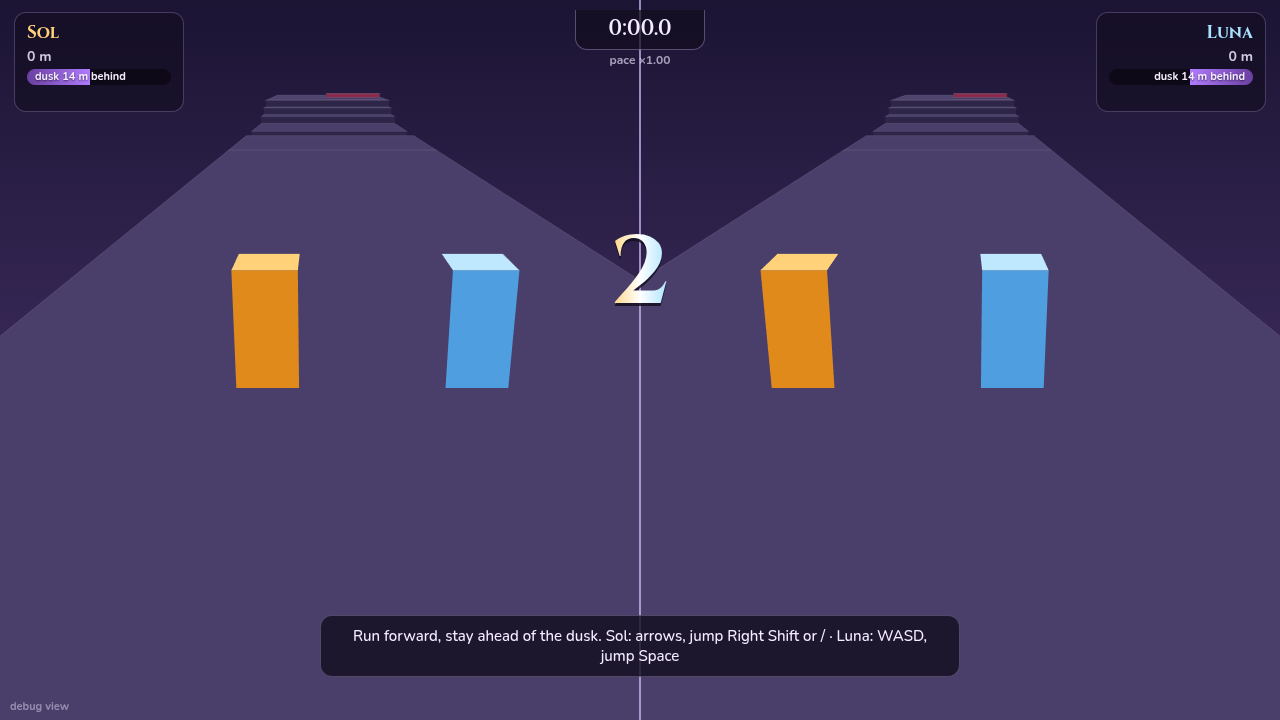
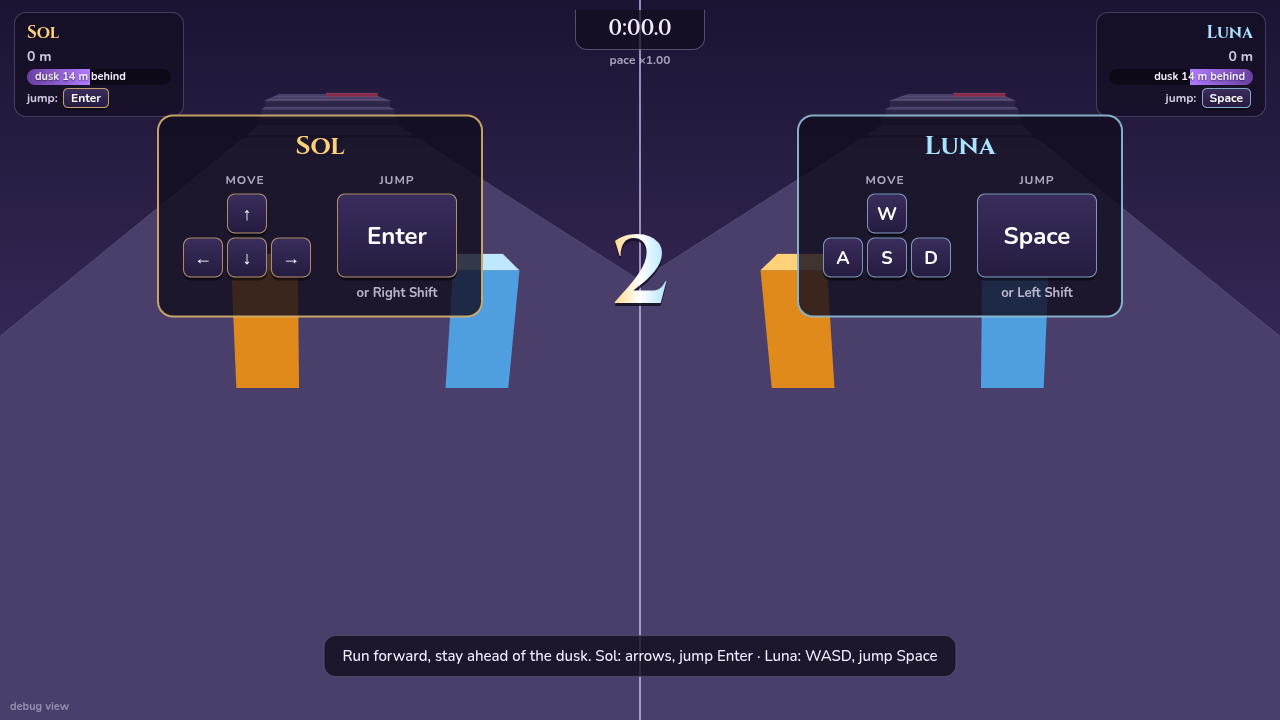
Docs: Runner 3D flow test and its numbers, far-apart tick time and state size, controls, file hooks; fresh screenshots (countdown cards, players far apart)

diff --git a/tools/r3d-far.js b/tools/r3d-far.js
@@ -17,7 +17,7 @@ function stand(p, o) {
   Object.assign(p, { x: (o.x0 + o.x1) / 2, z: o.z0 + 0.5, y: o.y, fy: o.y, vx: 0, vy: 0, vz: 0, gr: true, gref: -1, alive: true, jb: 0, jh: 0, coy: 0 });
 }
 
-for (const gap of gaps) {
+for (const [gap, warm] of [[gaps[gaps.length - 1], true], ...gaps.map(g => [g, false])]) {   // one silent pass first warms up the JIT
   let n = 0, us = 0, all = [], bytes = 0, maxBytes = 0, maxO = 0;
   for (const seed of seeds) {
     const L = buildRunner3d(seed);
@@ -41,5 +41,5 @@ for (const gap of gaps) {
       }
     }
   }
-  console.log(`players ${String(gap).padStart(3)} apart: tick mean ${(us / n).toFixed(1)} us, 99th percentile ${all.sort((x, y) => x - y)[Math.floor(all.length * 0.99)].toFixed(0)} us; state mean ${Math.round(bytes / (n / 25 * 3))} bytes, largest ${maxBytes} bytes, at most ${maxO} objects with state`);
+  if (!warm) console.log(`players ${String(gap).padStart(3)} apart: tick mean ${(us / n).toFixed(1)} us, 99th percentile ${all.sort((x, y) => x - y)[Math.floor(all.length * 0.99)].toFixed(0)} us; state mean ${Math.round(bytes / (n / 25 * 3))} bytes, largest ${maxBytes} bytes, at most ${maxO} objects with state`);
 }

diff --git a/docs/runner3d.md b/docs/runner3d.md
@@ -28,9 +28,10 @@ and its numbers, 5 determinism and netcode, 6 files and hooks, 7 rendering, 8 re
   rises about 4.1 units and stays in the air 0.8 s. Coyote time 5 ticks, a 6-tick jump buffer,
   and holding jump jumps again on landing. Step-up 0.5 units: lower steps are walked.
 - Mantle: a standing player who walks into a ledge up to 1.5 units high (`P3.mantle`) hops up
-  onto it on their own and keeps their speed, so no step or ledge you can walk into stops you
-  dead. Taller ledges are jumped. Anyone rising past a ledge face that low keeps their speed while
-  pressed against it, so a jump into a step face carries on over it.
+  onto it on their own and keeps their speed. Every rise on a stair is at most 1.5, so no step
+  you can walk into stops you dead. Taller ledges, across gaps, are jumped. Anyone rising past a
+  ledge face that low keeps their speed while pressed against it, so a jump into a step face
+  carries on over it. A 1.5 ledge holds a player at its face for about 8 ticks.
 - The player is a box 0.72 wide and 1.4 tall. Players pass through each other.
 - Static stone is solid on every side. Moving and tilting parts are solid from above only, so
   nothing can ever pin or wedge a player.
@@ -38,11 +39,12 @@ and its numbers, 5 determinism and netcode, 6 files and hooks, 7 rendering, 8 re
   it slowly downhill (5% of the slope per tick), so it is felt, but a player can always walk
   against it.
 - Falling: a player more than 9 units below the last ground they stood on is lost.
-- No lead cap. A player may run as far ahead of the dusk as they can survive. Nothing holds a
-  player who is holding forward. (Until November 2026 a lead cap stopped a player on a run-up
-  more than 32 units ahead of the dusk. At the start, when the dusk moves at 31% of run speed,
-  that held a running player on almost every run-up. It is gone.) The dusk never depends on the
-  players, so a leader can never push it onto the other.
+- No lead cap. A player may run as far ahead of the dusk as they can survive, and nothing holds
+  a player who is holding forward. Until November 2026 a lead cap stopped a player on a run-up
+  more than 32 units ahead of the dusk. The dusk starts at 31% of run speed, so a running player
+  hit the cap 4.9 s in and was then stopped on almost every run-up. The owner played it and
+  hated it, so it is gone. The dusk never depends on the players, so a leader can never push it
+  onto the other.
 
 | | Move (the camera never turns, so up is always forward) | Jump |
 | --- | --- | --- |
@@ -100,7 +102,7 @@ difficulty.
 | Obstacle | What it is | 1 | 2 | 3 | 4 |
 | --- | --- | --- | --- | --- | --- |
 | Gaps | Pits with landings offset sideways, higher or lower, narrower | Gap ≤ envelope for that rise minus the margin; landings overlap the take-off sideways by at least 1.2 units | Stateless | Stateless | Same for both |
-| Steps | Stairs up or down, ramps, drops, width changes | Rises ≤ 1.5 per step (0.5 is walked), ramps at most 1:2 | Stateless | Stateless | Same for both |
+| Steps | Stairs up or down, ramps, drops, width changes | Rises ≤ 1.5 per step: 0.5 is walked, higher ones are climbed by walking into them (the mantle) or jumped. Ramps at most 1:2 | Stateless | Stateless | Same for both |
 | Thorns | Hedges blocking part of the width (dodge through the opening, or jump them) and low strips across the whole width (jump) | Openings ≥ 1.6 wide; rows spaced so a diagonal run reaches the next opening; strips ≤ 2.5 deep | Stateless | Stateless | Same for both |
 | Pools | Twin channels: a sun channel and a moon channel side by side with a neutral strip, swapping sides at higher difficulty, shade bars across them; shade ponds; a sun/moon checkerboard | Every hostile stretch is either walkable around (the strip) or ≤ the gap limit | Stateless | Stateless | Mirrored: Sol's channel is Luna's channel reflected, and the checkerboard has an even column count so its mirror swaps the colours |
 | Chain slab | Slab hung on chains over a pit, tilting on two axes toward the weight on it | Gaps on and off sized for the slab at full tilt | Checked with the other player arriving earlier, abusing it, and parked on its edges, middle and corners | Damped spring back to exactly level (snaps to 0 below 2e-4), bounded 150 ticks; solid from above only, so it can't wedge | Same for both |
@@ -111,7 +113,7 @@ difficulty.
 | Thorn sweeper | A low thorn arm (or bar) turning over a round floor around a post | The bar is 0.55 high: a jump is above it for 46 ticks | Fixed clock, players don't move it | Clock only | Same for both |
 | Pendulums | Blades swinging sideways across a narrow bridge | The swing carries the blade fully clear of the bridge at each end; the blades of one bridge share a clock, each phased by the running time from the first, so timing the first is enough | Fixed clock | Clock only | Same for both |
 | Orbiting stones (new, 3D) | Four stones circling a pillar over a pit; step on as one passes the ledge, ride or hop between stones, step off on the far side | A stone passes the ledge every quarter turn; hops between neighbouring stones are short | Fixed clock | Clock only | Same for both |
-| Thorn curtain (new, 3D) | A thorn curtain across the course, too tall to jump, with an opening that slides from side to side | Opening ≥ 2.0 wide; it crosses every point of the course twice a period; curtains in one section share a clock phased by running time, so following the opening through one lines you up with the next | Fixed clock | Clock only | Same for both |
+| Thorn curtain (new, 3D) | A thorn curtain across the course, too tall to jump, with an opening that slides from side to side | Opening 3.0 wide at the start, 2.4 at full difficulty, sliding slowly: one period is 260 to 320 ticks, 40 fewer at full difficulty, so it moves at most about half of run speed. 3 units of floor before the first curtain to line up on. A player who runs and steers toward the opening as it is now gets through every time. Curtains in one section share a clock phased by running time, so following the opening through one lines you up with the next | Fixed clock | Clock only | Same for both |
 | Rolling orbs | Orbs rolling down lanes toward the players on fixed clocks | Dodge between lanes, or jump (an orb is 1.4 tall) | Fixed clock | Clock only | Same for both |
 
 ## 4. The checker and its final numbers
@@ -120,6 +122,7 @@ difficulty.
 node tools/check-runner3d.js                  # 50 seeds, course to z 1700
 QUICK=1 node tools/check-runner3d.js          # 4 seeds, for iteration
 SEED=7 V=1 Z=600 node tools/check-runner3d.js # one seed, every section printed
+FLOW_ONLY=1 KIND=gate node tools/check-runner3d.js  # only the flow test, only one kind
 ```
 
 `check-runner3d.js` uses the real sim, in parallel worker threads (`JOBS`, default 6). It runs every seed far enough to reach full difficulty (z 1100) and the top zone speed (the
@@ -143,6 +146,17 @@ zone reaches it at z 1600 travelled). It tests, for every section:
 7. **Determinism**: both course routes played together give the same state hash twice, from
    a freshly generated course, and with the state sent through `JSON.parse(JSON.stringify(S))`
    every 250 ticks.
+8. **Flow**: a never-stop bot must clear every section, for both characters, arriving at full
+   speed. Each tick it owes a quarter of run speed in forward progress, carried motion
+   included. Falling short adds to a debt and running faster pays it back. Once the debt
+   reaches 15 ticks of standing still, that route is dead. So it may slow, steer, strafe and
+   jump, but it never stands still for more than a quarter of a second and never averages less
+   than a quarter of run speed. Kinds without a clock are tried once. Clocked kinds (sweeper,
+   pendulum, orbiting stones, curtains, orbs) are tried at 12 arrival times 25 ticks apart, which
+   covers every phase of their clocks. A failed try is retried with a bigger allowed debt, to
+   report how long a wait it needed. Thorn curtains also get a reactive runner with no
+   foresight: always forward, steering toward the opening as it is now, keeping to the floor
+   underfoot. It must clear every curtain at the same 12 arrival times.
 
 ### What the checker found
 
@@ -152,7 +166,8 @@ The first full runs failed, and each failure was traced to either the course or 
   the wait for them to re-form ate a 12-unit lead at top speed. Slabs now come as two halves
   (one pass leaves a half whole) and re-form faster.
 - **Course: lead cap.** Holding a player at the cap anywhere could freeze them on a crumbling
-  slab or among thorns. The cap now holds only on run-ups.
+  slab or among thorns. The cap then held only on run-ups. It has since been removed, see
+  "Flow" below.
 - **Course: eclipse lane switches.** Diagonal jumps from small stones with full-length row gaps
   were barely possible. Lane switches now get shorter gaps.
 - **Course: thorn curtains and pendulum rows.** Several curtains or blades on unrelated clocks
@@ -163,24 +178,45 @@ The first full runs failed, and each failure was traced to either the course or 
   front of thorns past a short run-up, or a buffered jump at a run-up's edge). It now has
   retry rungs with other time weights and with a sideways or backward start.
 
+### Flow: what stopped a player who keeps moving
+
+Asked kind by kind whether a player who keeps moving, jumping and steering gets through
+without standing still to wait:
+
+| What | Before | Now |
+| --- | --- | --- |
+| Lead cap | A full-speed runner reached 141 of 145 run-ups in the first 600 units more than 32 ahead of the dusk, the first 4.9 s in, and was stopped on each. Hopping across a run-up slipped past it, which nobody would guess | Removed. No cap of any kind |
+| Step-ups | A rise over 0.5 was a wall until you jumped. Rises come in 0.25 steps up to 1.5, so a 0.75 step looked walkable and was not | The mantle: walk into a ledge up to 1.5 high and you hop up onto it, keeping your speed |
+| Thorn curtain | The never-stop bot got through on every try, but only by picking on the run-up where the opening would be. A reactive runner, steering toward the opening as it is, cleared 92% of tries on 30 seeds | Opening 3.0 to 2.4 wide, was 2.6 to 2.0. Slide period 260 to 320 ticks, was 160 to 210. 3 units of floor before the first curtain, was 1.5. The reactive runner clears 100% |
+| Gaps, steps, thorns, pools, chain slabs, stepping stones, ember slabs, eclipse stones, beams | No forced waits | No forced waits |
+| Sweeper, pendulum, orbiting stones, orbs | No forced waits at any of 12 arrival times. A runner times them by slowing on the run-up, never by standing still | Unchanged |
+
+The never-stop bot on this branch's code without the mantle and curtain changes, 4 seeds:
+3154 of 3154 tries cleared, 0 forced waits. So after the lead cap went, nothing in the course
+forced a stop on a player who sees ahead. The mantle and the curtain change are for a player
+who does not.
+
 ### Final numbers
 
-`node tools/check-runner3d.js` (50 seeds, z 1700, `JOBS=6`), at commit `4c0c574`: **PASS** in 146 s.
+`JOBS=8 node tools/check-runner3d.js` (50 seeds, z 1700), on branch `r3d-flow`: **PASS** in
+1553 s. The flow test is most of that time.
 
 | Test | Result |
 | --- | --- |
-| Whole course | 100/100 runs (Sol and Luna, every seed) reached z 1700, 317 s of play, past full difficulty (z 1100) and at top zone speed (6.9 u/s). Smallest lead at a section start 4.8 units, median of per-run minimums 13.1 |
-| Single section | 9722/9722 cleared alive from a 12-unit lead (4861 sections); 1027 slower than the zone, repaid by later sections |
-| Second arrival | 10668/10668 cleared. Time lost against the deadline: median -25 ticks (still early), 95% 6, worst 51 |
-| Parked partner | 7364/7364 cleared |
-| Back to rest | Chain slabs: 1868 after runs and abuse, slowest 99 ticks (bound 150). Ember slabs: 2638, slowest 83 ticks (bound crack + 46). None over |
+| Whole course | 100/100 runs (Sol and Luna, every seed) reached z 1700, 317 s of play, past full difficulty (z 1100) and at top zone speed (6.9 u/s). Smallest lead at a section start 4.3 units, median of per-run minimums 14.1 |
+| Single section | 9678/9678 cleared alive from a 12-unit lead (4839 sections); 982 slower than the zone, repaid by later sections |
+| Second arrival | 10948/10948 cleared. Time lost against the deadline: median -24 ticks, so still early, 95% 6, worst 46 |
+| Parked partner | 7602/7602 cleared |
+| Back to rest | Chain slabs: 1928 after runs and abuse, slowest 99 ticks, bound 150. Ember slabs: 2731, slowest 83 ticks, bound crack + 46. None over |
 | Equal difficulty | Sol and Luna average clear times match to 0.01 s in every kind; the largest single-section gap is 49 ticks (eclipse, mirrored routes found differently by the bot) |
 | Determinism | 50/50 seeds identical on replay, from a fresh course and through JSON every 250 ticks |
+| Flow | 41006/41006 tries cleared by the never-stop bot, 0 forced waits in any kind. Largest debt used: 15 ticks on curtains, 14 on gaps, steps and eclipse stones, 9 to 13 elsewhere. Thorn curtains, reactive runner: 6648/6648 cleared |
 
 Average clear time per section at full speed ranges from 1.8 s (curtains, pendulums,
 sweepers) to 3.7 s (stepping stones).
 
-The sim is unchanged on the polish branch (`r3d-polish`), so these numbers still hold.
+The course changed on this branch only in the thorn curtain and the mantle, so section counts
+moved a little from the earlier run (4861 sections then, 4839 now).
 
 ## 5. Determinism and netcode
 
@@ -195,6 +231,22 @@ The sim is unchanged on the polish branch (`r3d-polish`), so these numbers still
   the dusk; collision never scans it whole. `L.zmx[i]` is the largest `z1` of `L.objs[0..i]`, and
   `firstFrom(L, z)` finds by binary search the first object that can reach `z`, so each player's
   collision looks only at the objects around them.
+
+With the players far apart, `node tools/r3d-far.js` (3 seeds, 40 spots each, both holding
+forward and jump), before and after the per-player windows:
+
+| Players apart | Tick, mean | Tick, 99th pct | State, mean | State, largest | Objects with state |
+| --- | --- | --- | --- | --- | --- |
+| 0, before | 2.9 µs | 17 µs | 647 B | 789 B | 8 |
+| 0, now | 2.6 µs | 11 µs | 626 B | 766 B | 8 |
+| 100, before | 5.6 µs | 22 µs | 682 B | 947 B | 15 |
+| 100, now | 3.9 µs | 18 µs | 651 B | 802 B | 8 |
+| 400, before | 13.7 µs | 45 µs | 872 B | 1407 B | 37 |
+| 400, now | 4.1 µs | 20 µs | 659 B | 858 B | 10 |
+
+The renderer keeps object views and side decoration in a window around each drawn camera's
+player, 30 units behind to 125 ahead, merged where the two overlap. With the players 354 apart
+split screen keeps 97 views and single view 53.
 
 Online play uses the same scheme as the 2D runner. The client predicts with its own input and
 the last known remote input. On each snapshot it replays its unacknowledged inputs and carries
@@ -221,8 +273,9 @@ Measured with the real renderer on this machine's GPU, two headless clients and 
 - Largest correction of your own player: 0.0000 units in the real-renderer match; 0 or 0.1375
   (one tick of running) in the debug-view match, depending on the run. Never drawn moving
   backwards.
-- Final run of `tools/runner3d-browser.js`: 49 checks, all passed (local, online, co-op,
-  Dodgeball and the 2D runner from the menu, the real-renderer pass).
+- Final run of `tools/runner3d-browser.js`: 59 checks, all passed: local, online, co-op,
+  Dodgeball and the 2D runner from the menu, the real-renderer pass, the control cards, Enter
+  online, and the players 354 units apart in split and single view.
 - The other player: their input arrives a round trip late, so a jump or a stop of theirs is
   mispredicted by up to about 4 units. That correction used to snap (it was over `OFF_MAX`, 3
   units), which showed as a jump of 3.4 to 4.1 units in one frame. It now eases out at most 0.3
@@ -258,14 +311,15 @@ Hooks in the shared shell files. Each is a few lines next to the matching 2D run
   `#r3Results` cards.
 - `public/js/main.js:12` import; `:49` and `:64` create `Runner3DMode`; `:268` hands it the frame
   loop while active; `:413` stops it in `quitToMenu`; `:434` routes `start{mode:'runner3d'}` to it.
-- `public/js/input.js:5-6` the `SOL_3D` and `LUNA_3D` key maps; `:17` `preventDefault` for the
-  extra keys only while `mode3d` is on and never in a text field; `:24` the `mode3d` and `touch3`
-  fields; `:52-60` `pad3()`, `local3d()`, `any3d()`.
+- `public/js/input.js:4-12` the `SOL_3D`, `LUNA_3D` and online `ANY_3D` key maps; `:38-41`
+  `preventDefault` for those keys only while `mode3d` is `'local'` or `'online'`, never in a text
+  field, and never for Enter on a focused button; `:55` the `mode3d` and `touch3` fields;
+  `:104-112` `pad3()`, `local3d()`, `any3d()`.
 - `server/index.js:11` import; `:115` `Room.startRunner3d()`; `:123`, `:125`, `:142`, `:221` the
   `runner3d` branches in `restartGame()`, `startMsg()`, `tick()` and the `start` message; `:170`
   the input mask `& 31` (bit 16 is "back"; the co-op sim and the 2D runner read only bits 1, 2
   and 4, and Dodgeball reads 8).
-- `public/style.css:145-193` one block for the canvas, HUD, tips, held note and touch pad.
+- `public/style.css:154-223` one block for the canvas, HUD, tips, control cards and touch pad.
 
 ## 7. Rendering
 
@@ -439,6 +493,11 @@ node tools/r3d-far.js                                # sim tick time and state s
 - The pendulum blade's deadly depth is 0.28 all the way to its rim, so the drawn edge is thinner
   than what kills (by up to 0.12 at the very rim).
 - `WHY3.shard` has a death effect but nothing in the current sim causes it.
+- With no lead cap, the dusk is slow early: a good runner is 340 units ahead after 75 s. That is
+  the owner's call. The race is then decided by the course, not the dusk, until the dusk speeds up.
+- The flow test's bot plans with the real sim, so it knows where moving parts will be. It shows a
+  route without waiting exists, not that a player sees it. The thorn curtain also has a reactive
+  runner with no foresight. The other clocked kinds are timed by slowing on the run-up.
 - The dev server once exited with code 1 and no output in the shell agent's run. It did not
   happen again in this branch's runs (three servers, several hours).
 
@@ -453,7 +512,7 @@ node tools/r3d-far.js                                # sim tick time and state s
 - Art matched to the sim: pendulum disc, sweeper arm, full-size orbs with an archway and a
   socket, bramble curtain, ember halves with a re-form ghost. Passed curtains hide per camera.
 - Readability: per-player pool rims, creeping dusk shadow, lead-cap veil and held note, first-time
-  tips, dusk tick, ember crack and held sounds.
+  tips, dusk tick, ember crack and held sounds. The veil, note and held sound went with the cap.
 - Fixed a black frame: a shader `pow()` of a negative number gave NaN, and bloom spread it.
 - Glow sprite square edge, Luna's hood lining.
 - Perf: mid quality, auto by slow frames, vignette noise skipped when idle, shader warm-up, no
@@ -461,3 +520,8 @@ node tools/r3d-far.js                                # sim tick time and state s
 - Online: the other player's correction eases out instead of snapping (no pops at 80 ms lag).
   The browser test plays the WebGL pass in real time and checks tips and remote motion.
 - Folded `runner3d-app.md` and `runner3d-render.md` into this file; HANDOFF section 11.
+- Branch `r3d-flow` from `runner-3d` (d52cb57), after the owner played it: removed the lead cap
+  and everything that showed it; per-player object windows in the sim and the renderer;
+  the mantle; a slower, wider thorn curtain; a never-stop flow test and a reactive curtain runner
+  in the checker; Sol jumps with Enter or Right Shift, Luna with Space; control cards during the
+  countdown and a jump reminder until the first jump; `tools/r3d-far.js`.
